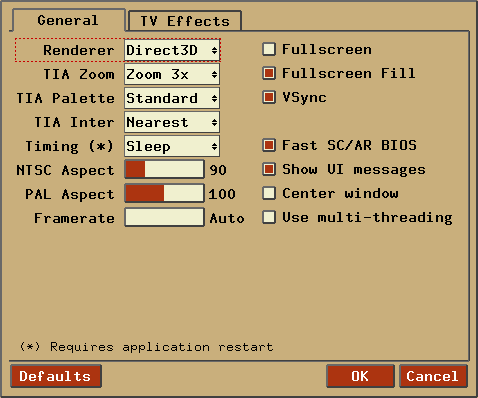
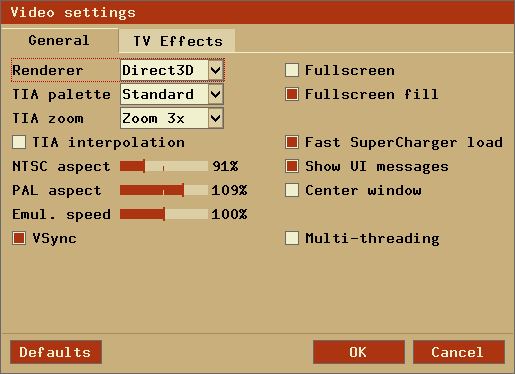
more doc updates

diff --git a/docs/index.html b/docs/index.html
@@ -1893,21 +1893,8 @@
     </tr>
 
     <tr>
-      <td><pre>-framerate &lt;number&gt;</pre></td>
-      <td>Display the given number of frames per second. Normally, Stella
-        will determine framerate based on number of scanlines.
-        Setting this to 0 automatically enables auto-frame
-        calculation (ie, framerate based on scanlines).</td>
-    </tr>
-
-    <tr>
-      <td><pre>-timing &lt;sleep|busy&gt;</pre></td>
-      <td>Determines type of wait to perform between processing frames.
-        Sleep will release the CPU as much as possible, and is the
-        preferred method on laptops (and other low-powered devices)
-        and when using VSync. Busy will emulate z26 busy-wait
-        behaviour, and use all possible CPU time, but may eliminate
-        graphical 'tearing' in software mode.</td>
+      <td><pre>-speed &lt;number&gt;</pre></td>
+      <td>Control the emulation speed (as a percentage, 10 - 1000).</td>
     </tr>
 
     <tr>
@@ -2610,20 +2597,19 @@
         <table border="1" cellpadding="4">
           <tr><th>Item</th><th>Brief description</th><th>For more information,<br>see <a href="#CommandLine">CommandLine</a></th></tr>
           <tr><td>Renderer</td><td>Use specified rendering mode</td><td>-video</td></tr>
-          <tr><td>TIA Zoom</td><td>(Integral) zoom level for emulation mode </td><td>-tia.zoom</td></tr>
-          <tr><td>TIA Palette</td><td>Palette for emulation mode</td><td>-palette</td></tr>
-          <tr><td>TIA Inter</td><td>Interpolation for TIA image</td><td>-tia.inter</td></tr>
-          <tr><td>Timing (*)</td><td>How to wait between frames (requires restart)</td><td>-timing</td></tr>
-          <tr><td>NTSC Aspect</td><td>Width of TIA image in NTSC mode</td><td>-tia.aspectn</td></tr>
-          <tr><td>PAL Aspect</td><td>Width of TIA image in PAL mode</td><td>-tia.aspectp</td></tr>
-          <tr><td>Framerate</td><td>Frames per second in emulation mode</td><td>-framerate</td></tr>
+          <tr><td>TIA palette</td><td>Palette for emulation mode</td><td>-palette</td></tr>
+          <tr><td>TIA zoom</td><td>(Integral) zoom level for emulation mode </td><td>-tia.zoom</td></tr>
+          <tr><td>TIA interpolation</td><td>Interpolation for TIA image</td><td>-tia.inter</td></tr>
+          <tr><td>NTSC aspect</td><td>Width of TIA image in NTSC mode</td><td>-tia.aspectn</td></tr>
+          <tr><td>PAL aspect</td><td>Width of TIA image in PAL mode</td><td>-tia.aspectp</td></tr>
+          <tr><td>Emul. speed</td><td>Emulation speed</td><td>-speed</td></tr>
           <tr><td>Fullscreen</td><td>Self-explanatory</td><td>-fullscreen</td></tr>
-          <tr><td>Fullscreen Fill</td><td>Completely fill TIA image in fullscreen</td><td>-tia.fsfill</td></tr>
+          <tr><td>Fullscreen fill</td><td>Completely fill TIA image in fullscreen</td><td>-tia.fsfill</td></tr>
           <tr><td>VSync</td><td>Enable vertical sync'ed updates</td><td>-vsync</td></tr>
-          <tr><td>Fast SC/AR BIOS</td><td>Skip progress loading bars for SuperCharger ROMs</td><td>-fastscbios</td></tr>
+          <tr><td>Fast SuperCharger load</td><td>Skip progress loading bars for SuperCharger ROMs</td><td>-fastscbios</td></tr>
           <tr><td>Show UI messages</td><td>Overlay UI messages onscreen</td><td>-uimessages</td></tr>
           <tr><td>Center window</td><td>Attempt to center application window</td><td>-center</td></tr>
-          <tr><td>Use multi-threading</td><td>Enable multi-threaded rendering</td><td>-threads</td></tr>
+          <tr><td>Multi-threading</td><td>Enable multi-threaded rendering</td><td>-threads</td></tr>
         </table>
       </td>
     </tr>
